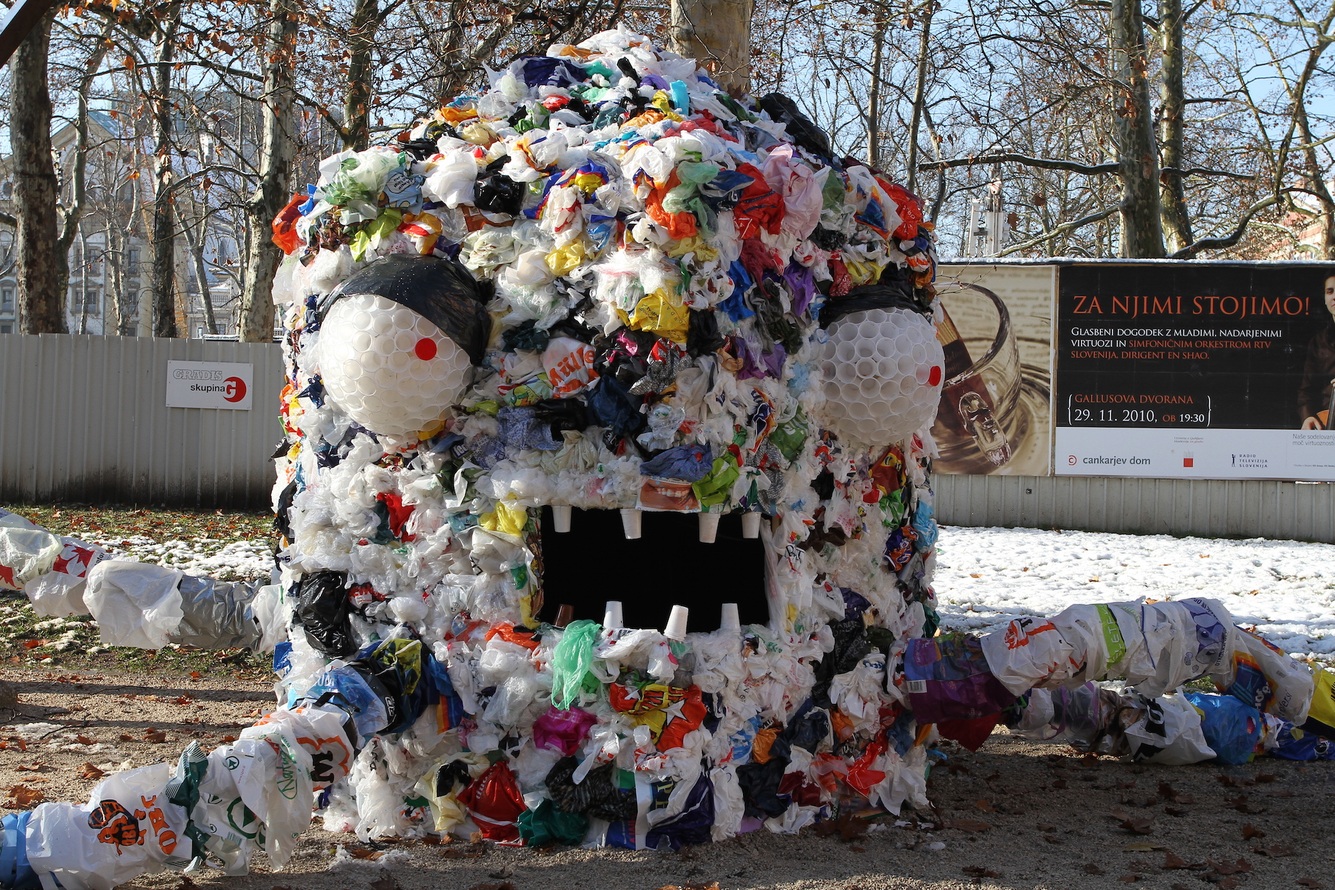
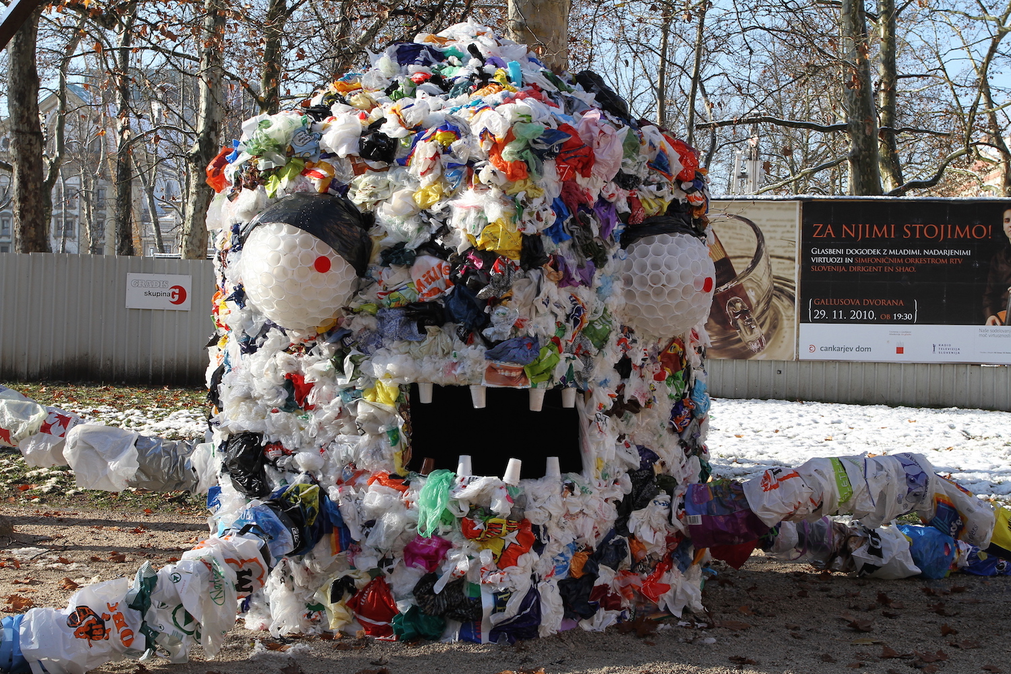
Smaller HP image
Reduced HP image to 1.4 Mb but looking to decrease more. Testing out
the responsive CSS as well.

diff --git a/css/freelancer.css b/css/freelancer.css
@@ -88,8 +88,19 @@ header {
     	rgba(90, 143, 90, .75),
     	rgba(90, 143, 90, .75)
     	),
-    url('../img/badbags.jpg');
-    overflow: hidden;
+    url('../img/badbags.jpg')no-repeat;
+    height: 100%;
+    width: 100%;
+    top: 0;
+    bottom: 0;
+    left: 0;
+    right: 0;
+    z-index: 0;
+    background-position: 50% 50%;
+	    -webkit-background-size: cover;
+	    -moz-background-size: cover;
+	    -o-background-size: cover;
+	    background-size: cover;
     width: 100%;
 }
 
